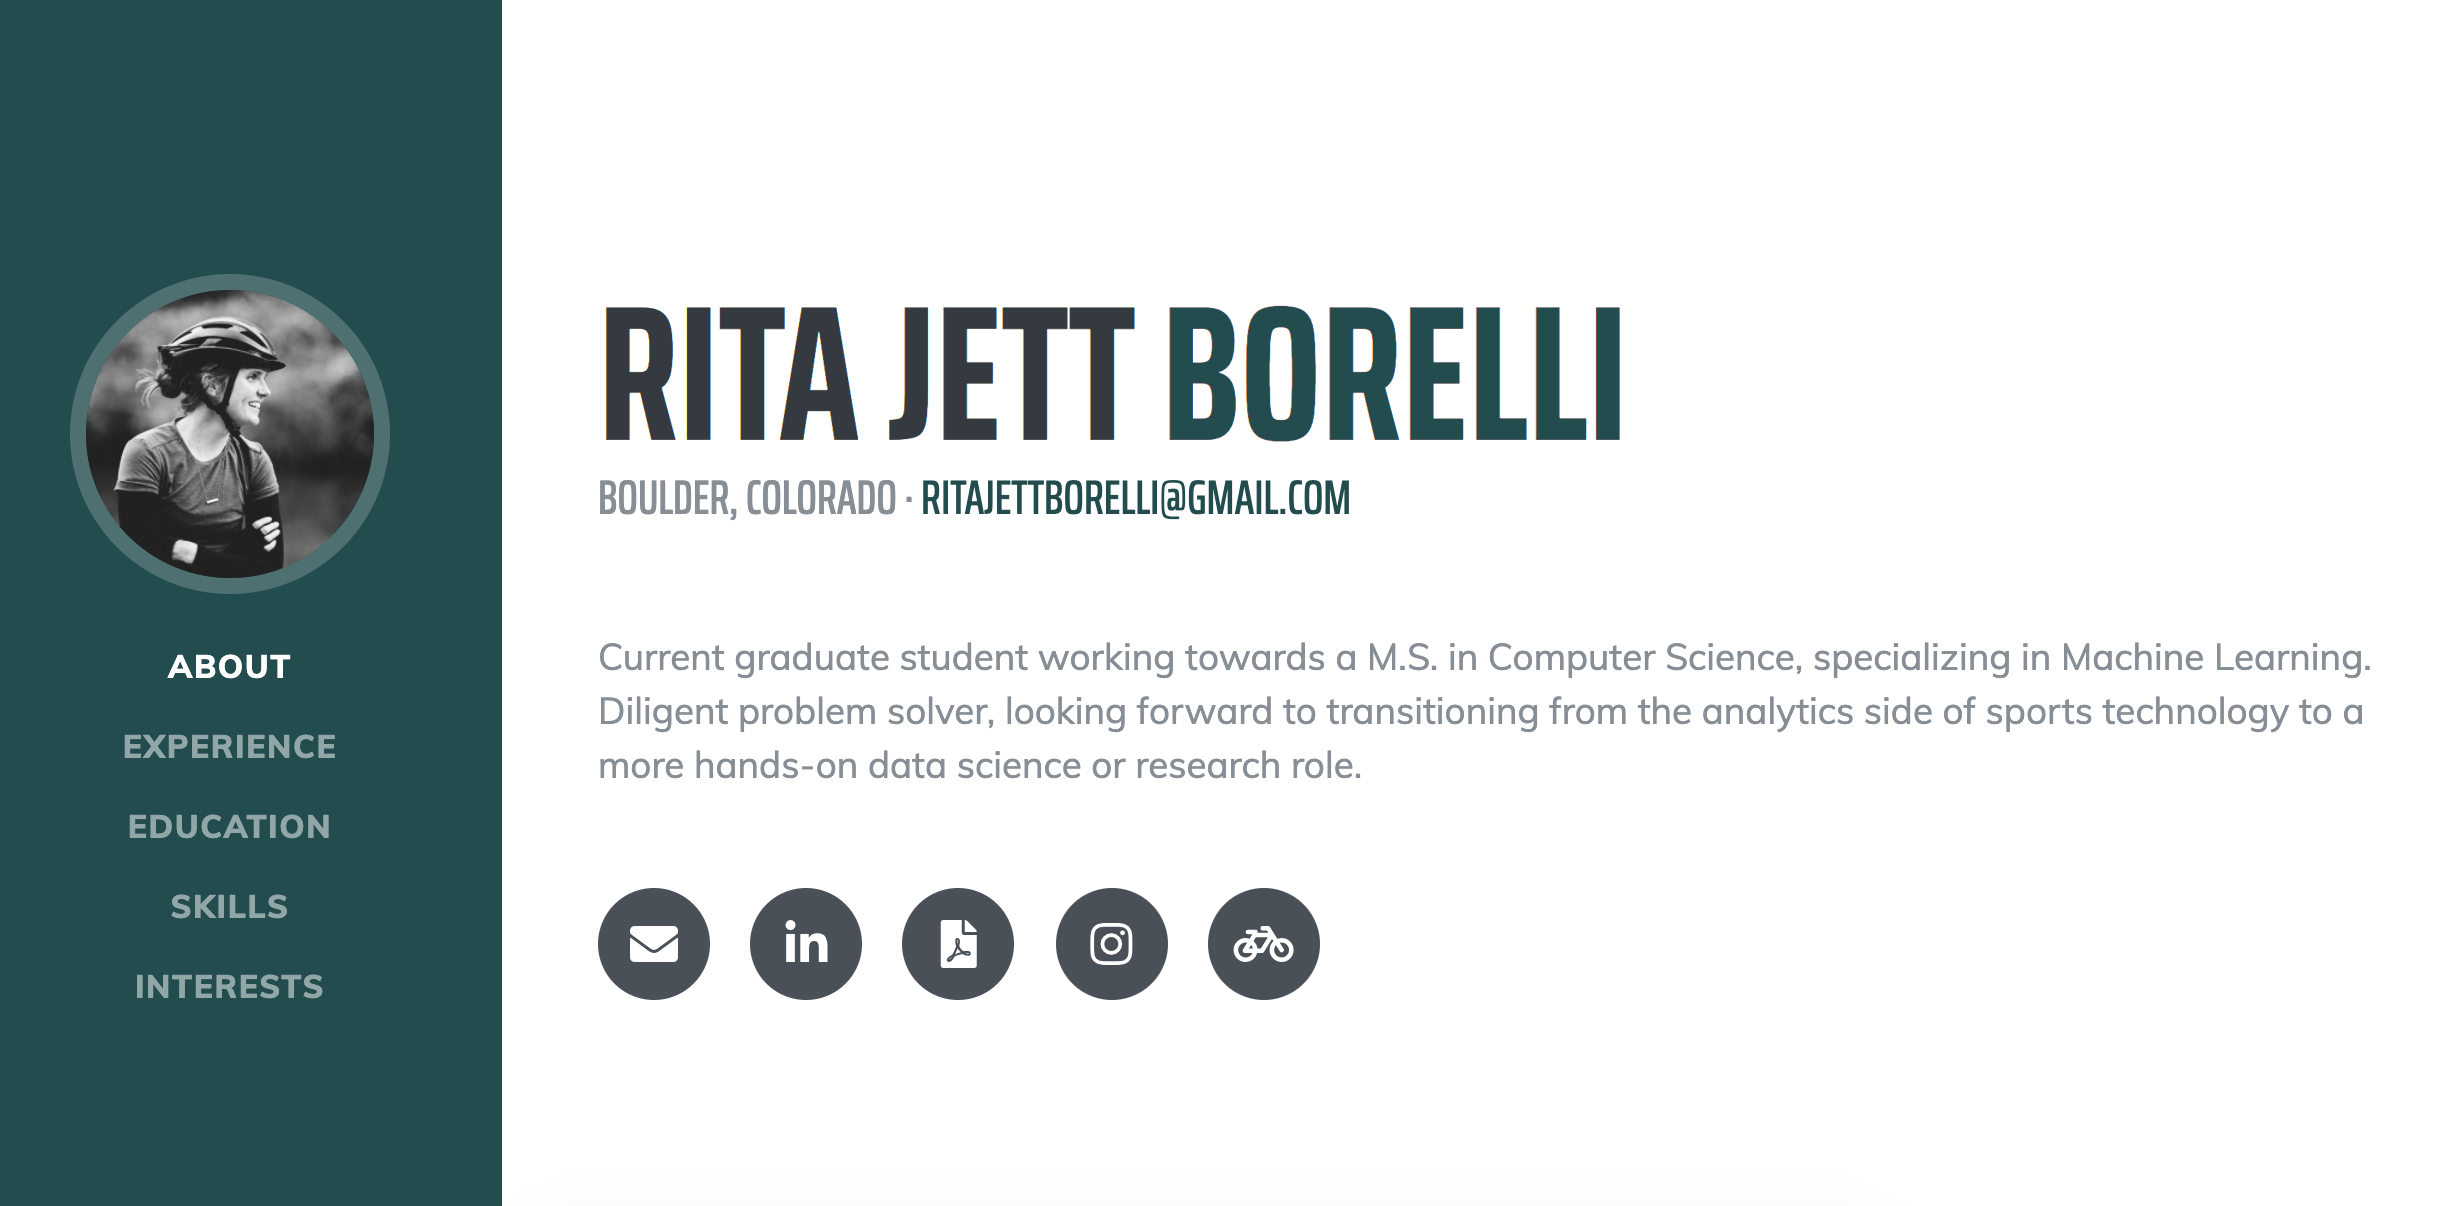
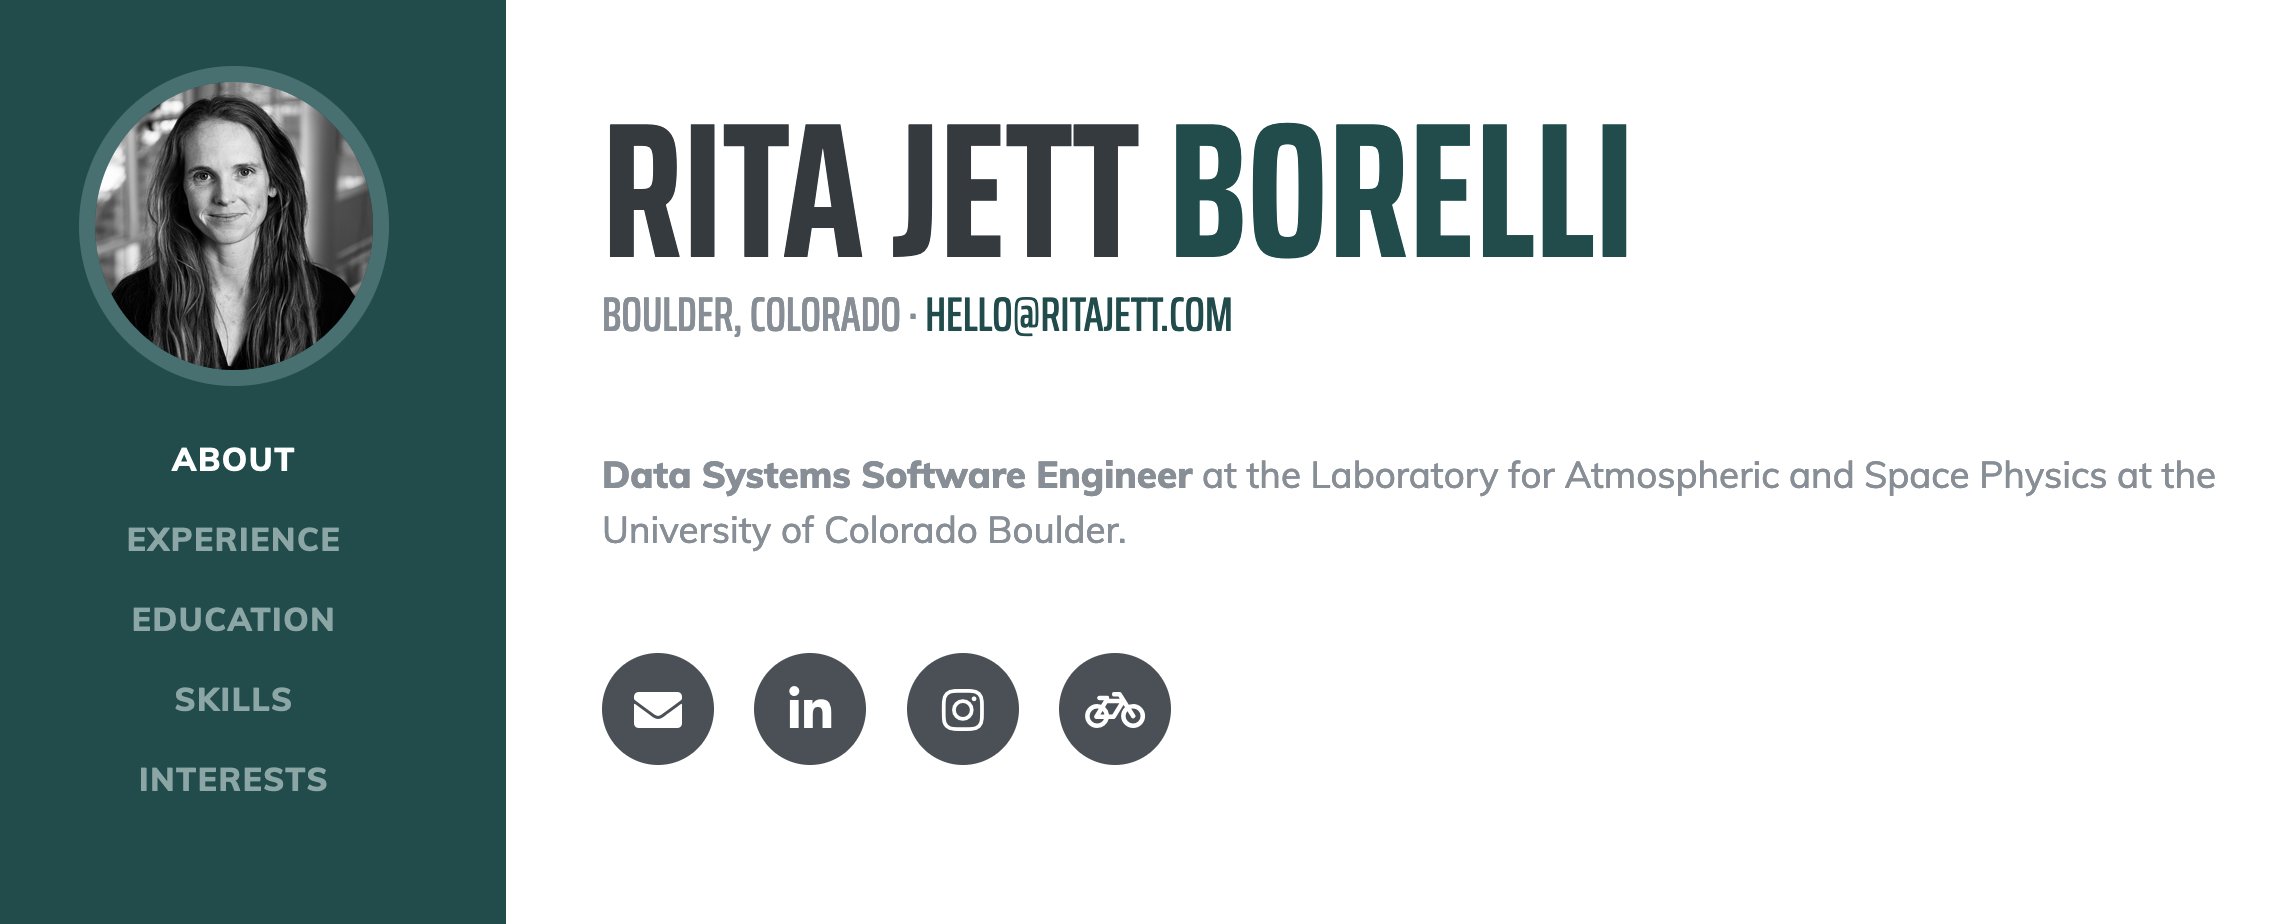
update email, photo, preview

Changed region(s): [[0.031, 0.0, 0.9603, 1.0], [0.031, 0.5455, 0.1549, 0.697], [0.062, 0.7273, 0.1549, 0.8788]]

diff --git a/index.html b/index.html
@@ -64,11 +64,11 @@
           <span class="text-primary">Borelli</span>
         </h1>
         <div class="subheading mb-5">Boulder, Colorado ·
-          <a href="mailto:rita.borelli@colorado.edu">rita.borelli@colorado.edu</a>
+          <a href="mailto:hello@ritajett.com">hello@ritajett.com</a>
         </div>
         <p class="lead mb-5"><b>Data Systems Software Engineer</b> at the Laboratory for Atmospheric and Space Physics at the University of Colorado Boulder.</p>
         <div class="social-icons">
-          <a href="mailto:rita.borelli@colorado.edu">
+          <a href="mailto:hello@ritajett.com">
             <i class="fa fa-envelope"></i>
           </a>
           <a href="https://www.linkedin.com/in/ritaborelli/">
@@ -322,7 +322,7 @@
           <li class="list-inline-item"></li>
           <li class="list-inline-item">《 Databricks 》</li>
           <li class="list-inline-item"></li>
-          <li class="list-inline-item">《 Scala 》</li>
+          <li class="list-inline-item">《 Docker 》</li>
           <li class="list-inline-item"></li>
           <li class="list-inline-item">《 Tableau 》</li>
           <li class="list-inline-item"></li>

diff --git a/README.md b/README.md
@@ -1,4 +1,6 @@
-# Rita Jett Borelli / resume
+# Rita Jett Borelli 
+
+Visit the site: [https://www.ritajett.com/](https://www.ritajett.com/)
 
 ## Preview
 ![Resume Preview](https://github.com/ritajett/ritajett.github.io/blob/master/img/ResumePreview.png?raw=true)
